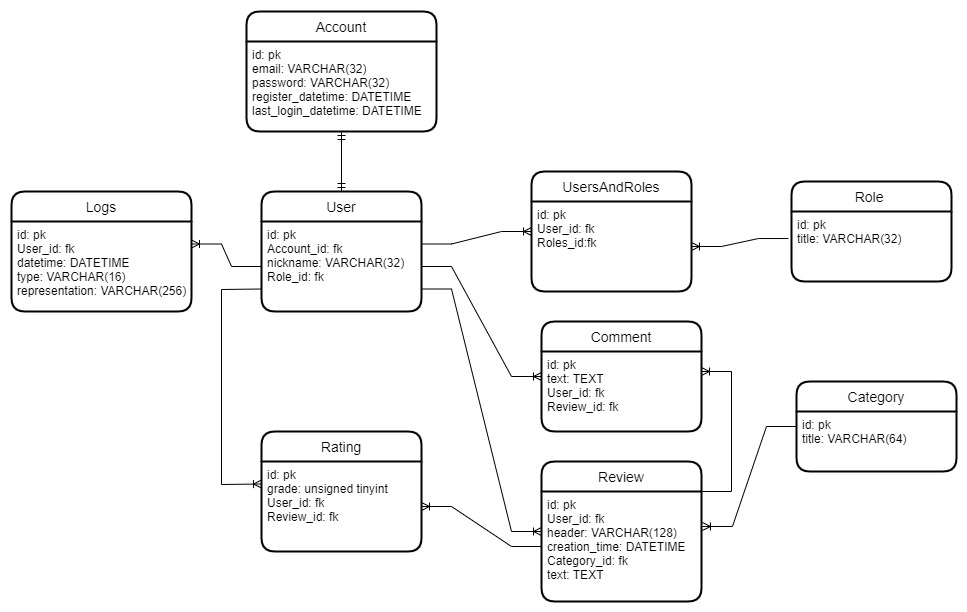
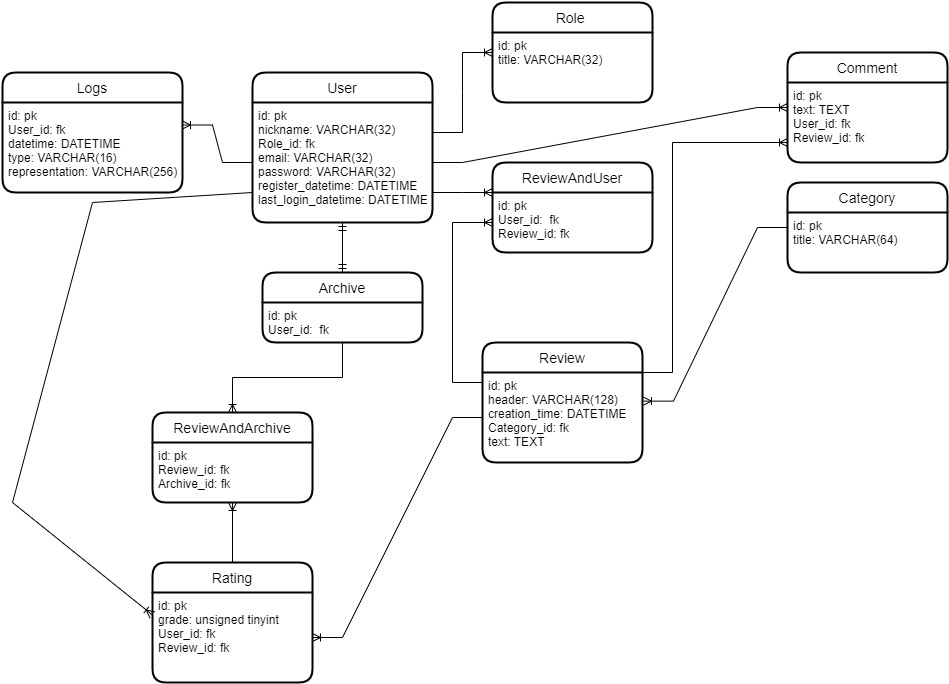
update

diff --git a/entities.md b/entities.md
@@ -1,28 +1,28 @@
   # Описание сущностей
-  
-  ## Аккаунт (Account)
+   ## Пользователь (User)
   | Имя поля | Тип | Ограничения | Описание |
   |----------|-----|-------------|----------|
    |id|int|PK, NOT NULL, AUTO INCREMENT, UNIQUE|Первичный ключ|
+   |Role_id|int|FK, NOT NULL|Внешний ключ на роль|
+   |nickname|VARCHAR(32)|NOT NULL|Никнейм|
    |email|VARCHAR(32)|NOT NULL|Электронная почта|
    |password|VARCHAR(32)| NOT NULL, SHA-256|Пароль|
    |register_datetime|DATETIME|NOT NULL|Время регистрации|
    |last_login_datetime|DATETIME|NOT NULL|Последняя авторизация|
-  ## Пользователь (User)
-  | Имя поля | Тип | Ограничения | Описание |
-  |----------|-----|-------------|----------|
-   |id|int|PK, NOT NULL, AUTO INCREMENT, UNIQUE|Первичный ключ|
-   |Account_id|int|FK, NOT NULL, UNIQUE|Внешний ключ на пользователя|
-   |nickname|VARCHAR(32)|NOT NULL|Никнейм|
   ## Рецензия (Review)
   | Имя поля | Тип | Ограничения | Описание |
   |----------|-----|-------------|----------|
   |id|int|PK, NOT NULL, AUTO INCREMENT, UNIQUE|Первичный ключ|
-  |User_id|int|FK, NOT NULL|Внешний ключ на пользователя (автора рецензии)|
   |header|VARCHAR(128)|NOT NULL|Заголовок рецензии|
   |creation_time|DATETIME|NOT NULL|Время создания|
-  |Category_id|id|FK, NOT NULL|Внешний ключ на категорию|
-  |text|TEXT|NOT NULL|Текст|
+  |Category_id|int|FK, NOT NULL|Внешний ключ на категорию|
+  |text|VARCHAR(4096)|NOT NULL|Текст|
+  ## Рецензия и Пользователь (ReviewAndUser)
+  | Имя поля | Тип | Ограничения | Описание |
+  |----------|-----|-------------|----------|
+  |id|int|PK, NOT NULL, AUTO INCREMENT, UNIQUE|Первичный ключ|
+  |User_id|int|FK, NOT NULL|Внешний ключ на пользователя|
+  |Review_id|int|FK, NOT NULL|Внешний ключ на рецензию|
   ## Роль (Role)
   | Имя поля | Тип | Ограничения | Описание |
   |----------|-----|-------------|----------|
@@ -44,7 +44,7 @@
   | Имя поля | Тип | Ограничения | Описание |
   |----------|-----|-------------|----------|
   |id|int|PK, NOT NULL, AUTO INCREMENT, UNIQUE|Первичный ключ|
-  |text|TEXT|NOT NULL|Текст комментария|
+  |text|VARCHAR(2048)|NOT NULL|Текст комментария|
   |User_id|int|FK, NOT NULL|Внешний ключ на пользователя оставившего комментарий|
   |Review_id|int|FK, NOT NULL|Внешний ключ на рецензию|
   ## Логи (Logs)
@@ -55,9 +55,14 @@
   |datetime|DATETIME|NOT NULL|Время логирования|
   |type|VARCHAR(16)|NOT NULL|Тип лога|
   |representation|VARCHAR(256)|NOT NULL|Текстовое представление лога|
-  ## Пользователи и Роли (UsersAndRoles)
+  ## Архив пользователя (Archive)
   | Имя поля | Тип | Ограничения | Описание |
   |----------|-----|-------------|----------|
   |id|int|PK, NOT NULL, AUTO INCREMENT, UNIQUE|Первичный ключ|
-  |User_id|int|FK, NOT NULL|Внешний ключ на пользователя|
-  |Roles_id|int|FK, NOT NULL|Внешний ключ на роль|
+  |User_id|int|PK, NOT NULL, AUTO INCREMENT, UNIQUE|Внешний ключ|
+  ## Рецензия и Архив (ReviewAndArchive)
+  | Имя поля | Тип | Ограничения | Описание |
+  |----------|-----|-------------|----------|
+  |id|int|PK, NOT NULL, AUTO INCREMENT, UNIQUE|Первичный ключ|
+  |Review_id|int|FK, NOT NULL|Внешний ключ на рецензию|
+  |Archive_id|int|FK, NOT NULL|Внешний ключ на архив|

diff --git a/Technical Requirements.md b/Technical Requirements.md
@@ -4,27 +4,33 @@
 ## Сущности
 - Аккаунты
 - Рецензии
-- Администратор
+- Архив
 - Роли
 - Пользователи
 - Рейтинг
 - Категория
 - Комментарии
 - Логи
-
+## Функциональные требования
+- Авторизация
+- Управление пользователями (CRUD)
+- Управления книгами (CRUD)
+- Система ролей
+- Журналирование действий пользователя
 ## Роли
 
-|   Право/Роль   |Посетитель        | Пользователь | Модератор | Администратор              |
+|   Право/Роль   |Посетитель        | Пользователь | Модератор | Администратор              
 |----------------|------------------|--------------|-----------|-------------|
-|Просмотр рецензии|+            |+            |+ | + |
-|Создание рецензии| -           |+     |+|+|
-|Редактирование рецензии| -           |-     |+|+|
+|Просмотр рецензии|+|+|+|+|
+|Создание рецензии|-|+|+|+|
+|Редактирование чужой рецензии|-|-|+|+|
+|Редактирование собственной рецензии|-|+|+|+|
 |Выставление рейтинга|-|+|+|+|
-|Удаление рецензии|-|-| +| +
+|Удаление рецензии|-|-|+|+|
 |Удаление рейтинга|-|-|+|+|
 |Удаление комментария|-|-|+|+|
-|Управление модераторами|-|-|-| + |
-|Управление пользователями| -| - | +| +|
+|Управление модераторами|-|-|-|+|
+|Управление пользователями|-|-|+|+|
 |Просмотр комментариев|-|+|+|+|
 |Просмотр логов|-|-|-|+|
 
